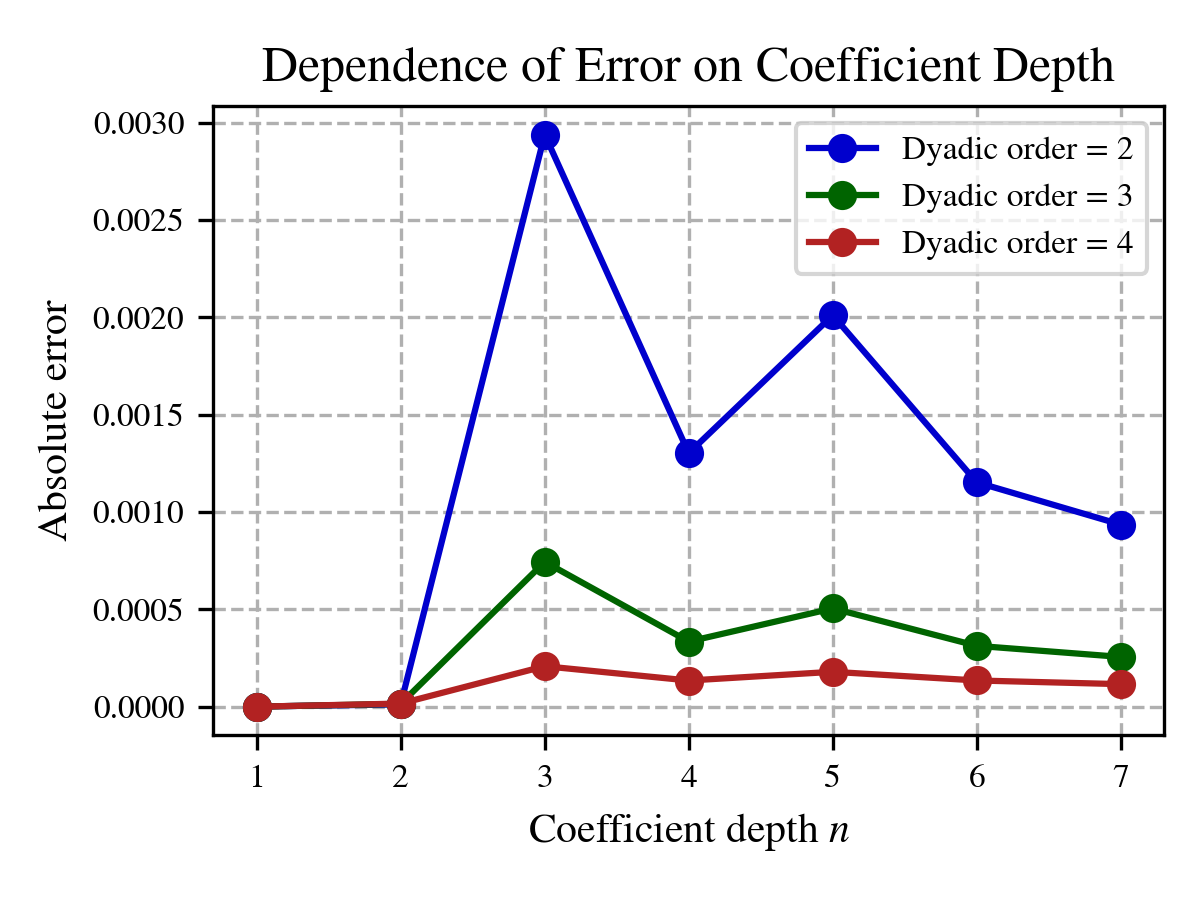
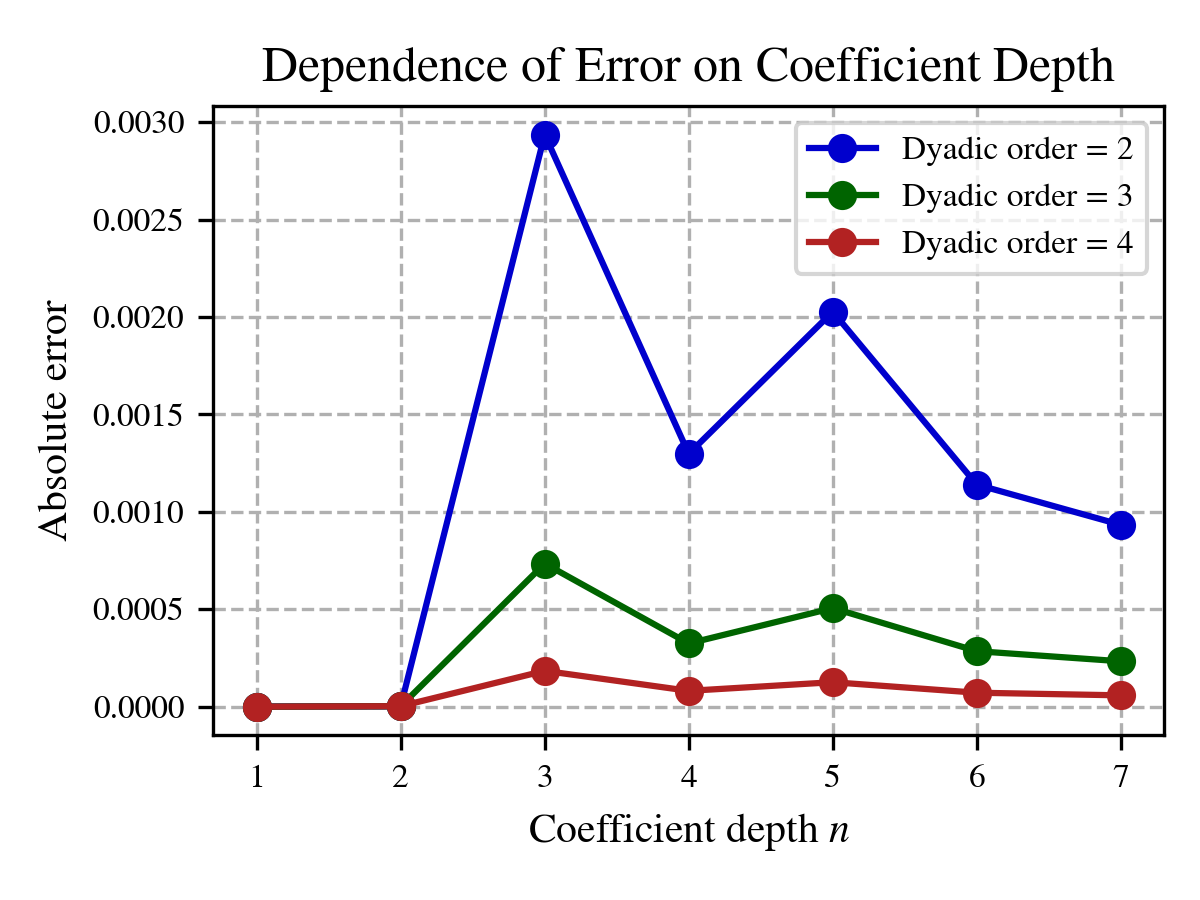
Removed dependence on iisignature in examples

diff --git a/examples/M_error.py b/examples/M_error.py
@@ -3,8 +3,9 @@ import torch
 import matplotlib.pyplot as plt
 from mpl_toolkits.axes_grid1 import make_axes_locatable
 import plotting_params
+import sigcoeff
+
 plotting_params.set_plotting_params(8, 10, 12)
-import iisignature
 from sigcoeff import compute_coeff
 from tqdm import tqdm
 
@@ -23,19 +24,13 @@ def M_error_imshow(len_x, ax, num):
         X = torch.rand((len_x, 2), dtype=torch.float64, device=device)
         idx = [0, 1] * int(dim / 2)
 
-        #############################################
-        # Get true values from iisignature
-        #############################################
-        sig = iisignature.sig(np.array(X.cpu()), dim - 1)
-
         for i in range(1, dim):
             multi_index = idx[:i]
-            level = len(multi_index)
 
-            start = iisignature.siglength(2, level - 1) if level > 1 else 0
-
-            res = sig[start: iisignature.siglength(2, level)]
-            true_ = res.reshape(tuple([2] * level))[*multi_index]
+            #############################################
+            # Get true values from chen
+            #############################################
+            true_ = sigcoeff.chen_cython(X.cpu(), multi_index)
 
             #############################################
             # Compute values for different choices of M

diff --git a/examples/depth_error.py b/examples/depth_error.py
@@ -2,8 +2,9 @@ import numpy as np
 import torch
 import matplotlib.pyplot as plt
 import plotting_params
+import sigcoeff
+
 plotting_params.set_plotting_params(8, 10, 12)
-import iisignature
 from sigcoeff import compute_coeff
 from tqdm import tqdm
 
@@ -56,11 +57,9 @@ if __name__ == '__main__':
             est_4[i - 1, ss] = estimate_4
 
             #############################################
-            # Get true value from iisignature
+            # Get true value from chen
             #############################################
-            res = iisignature.sig(np.array(X_.cpu()), level)
-            res = res[-dim_ ** level:]
-            true_ = res.reshape(tuple([dim_] * level))[*multi_index]
+            true_ = sigcoeff.chen_cython(X.cpu(), multi_index)
             true[i - 1, ss] = true_
 
             depth_error_2[i - 1, ss] = abs(true_ - estimate_2)
